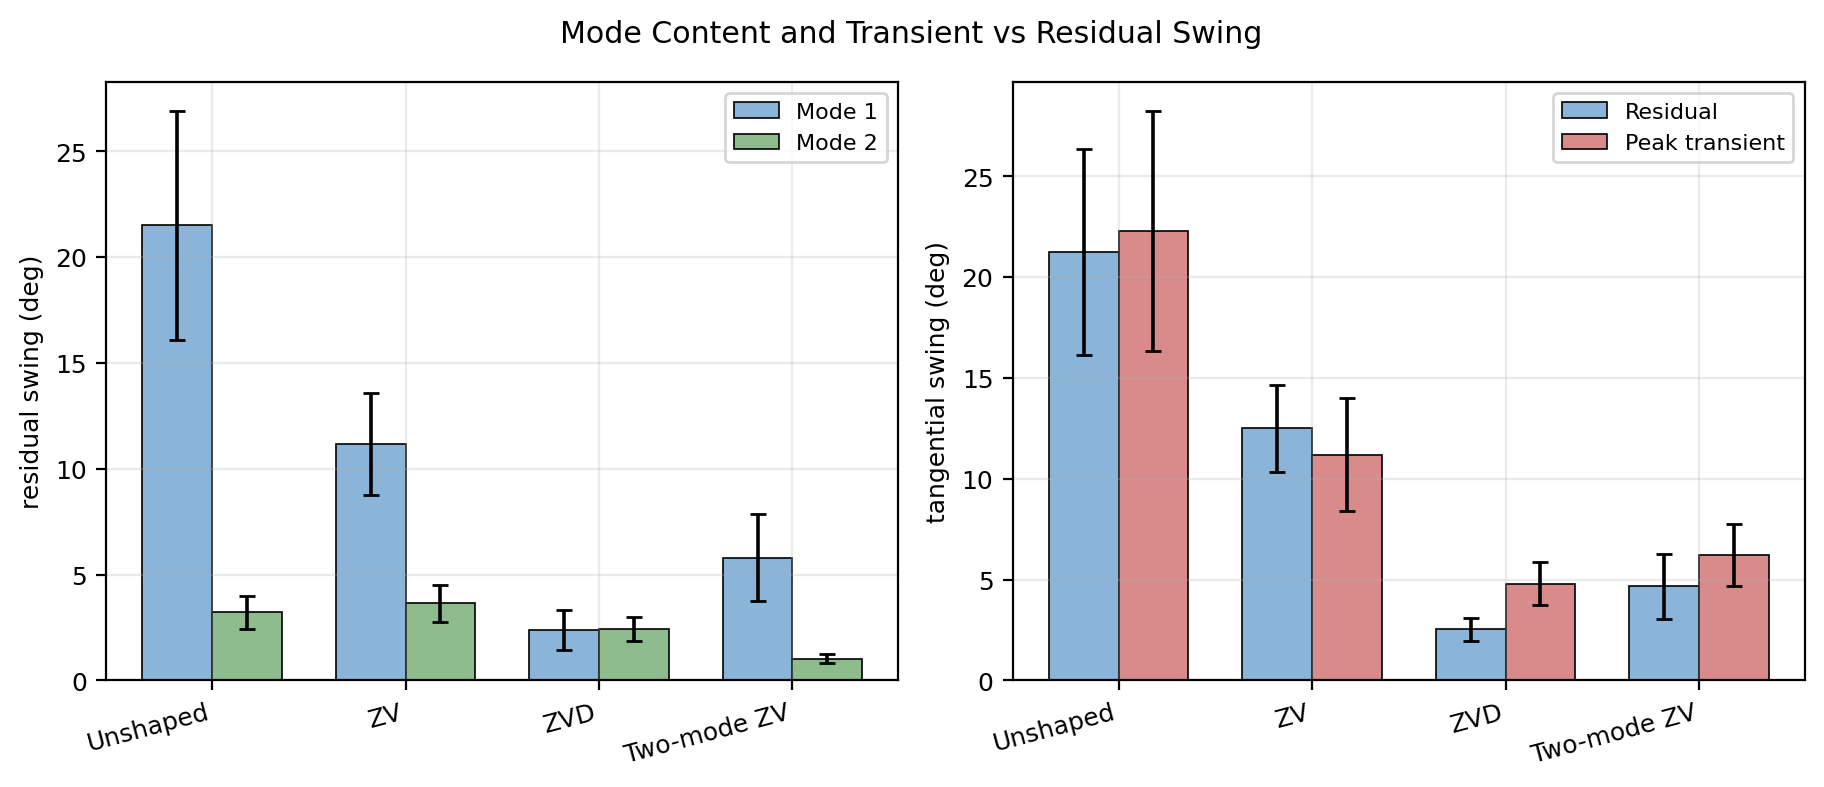
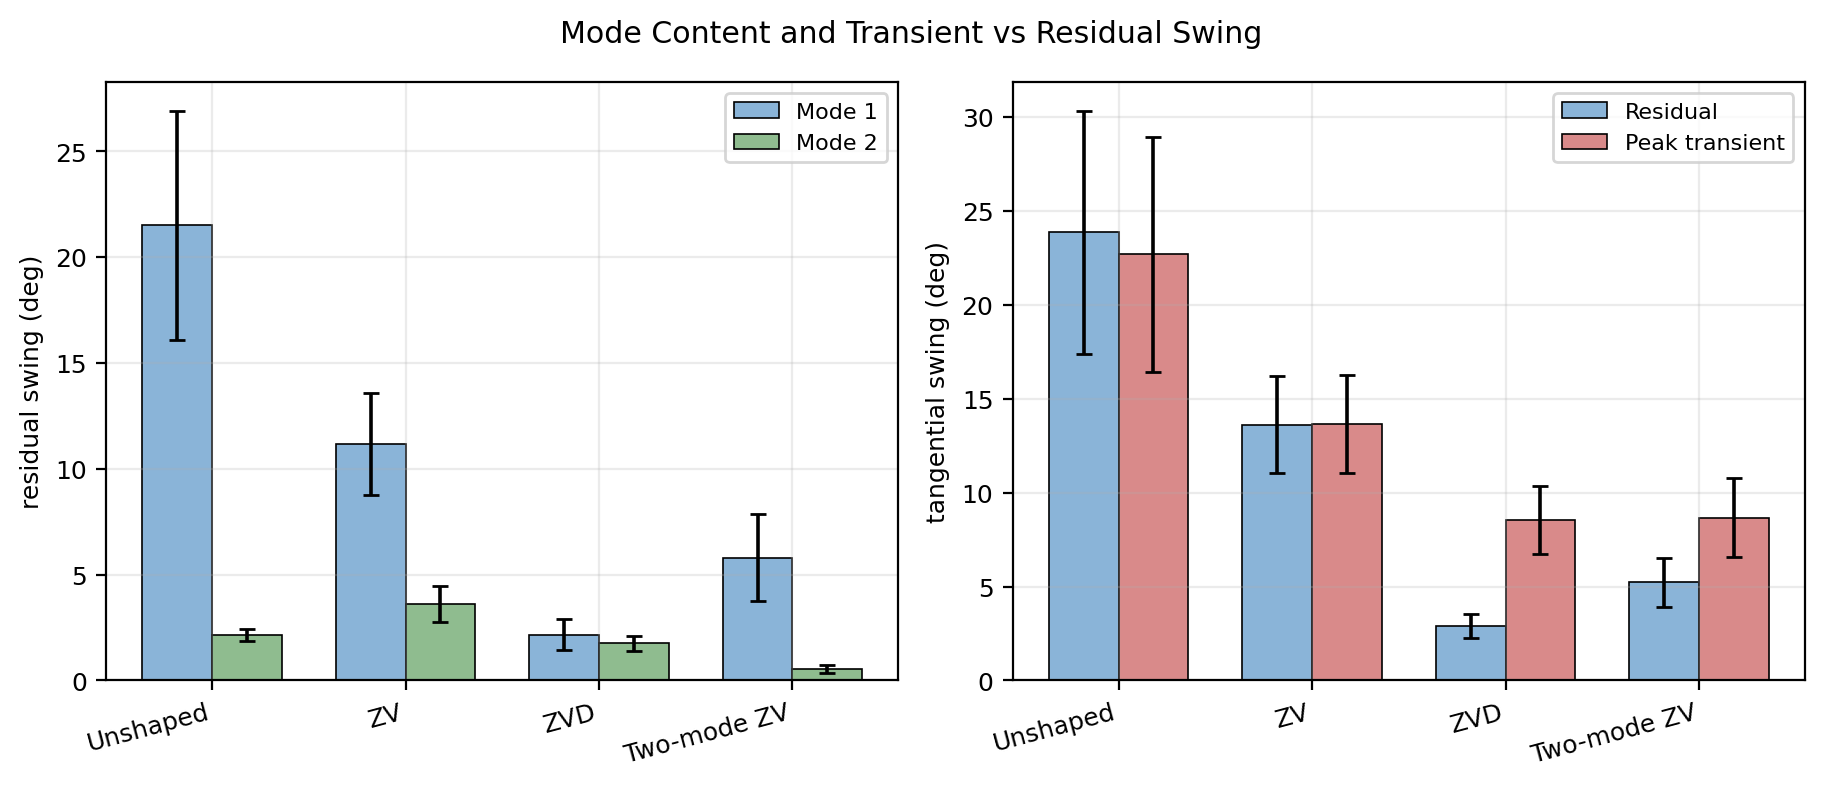
Fix per-mode amplitude scoring window and peak-to-peak definition
Two faults let a single mode band read larger than the full-band residual
it is a component of, which showed up as ZV radial mode 1 (11.2 deg)
exceeding ZV radial full band (6.9 deg).

- mode_amplitudes took only an upper scoring bound, so the window
  silently started at the beginning of the vision record and included the
  move itself, while the full-band metric scored post-move only. Added
  t_score_lo and passed the residual window's start.
- amp_pp_max was the largest alternating-extrema swing. On a two-mode
  signal, ripple from the faster mode makes the hysteresis detector
  commit a reversal part-way up a slow-mode swing and splits it, so the
  full-band figure came out too small. Peak-to-peak is now max - min of
  the detrended window, which cannot fragment.

A band component can still exceed the total by a little where the other
mode partially cancels it at the extremes; that is real rather than a
defect, and is now at most 14 % against 63 % before.

diff --git a/Fall 2026/Adv Control/Lab 2/analysis/lab2lib.py b/Fall 2026/Adv Control/Lab 2/analysis/lab2lib.py
@@ -281,13 +281,20 @@ def residual_metrics(t, y, t0, t1, min_swing=0.0, n_cycles_cap=None, detrend="me
     if len(pk) > 1:
         r.freq_fft2_hz = pk[1][0]
 
+    # Peak-to-peak is the full excursion of the detrended window.  Taking the
+    # largest ALTERNATING-EXTREMA swing instead under-reports a multi-mode
+    # signal: ripple from the faster mode makes the hysteresis detector commit
+    # a reversal part-way up a slow-mode swing, splitting it into pieces.  That
+    # let a single mode band read larger than the full-band signal it belongs
+    # to, which is impossible.  max - min cannot do that.
+    r.amp_pp_max = float(np.ptp(yc))
+
     idx = alternating_extrema(yc, min_swing)
     r.n_extrema = int(idx.size)
     if idx.size >= 2:
         swings = np.abs(np.diff(yc[idx]))
         r.amp_pp_mean = float(np.mean(swings))
         r.amp_pp_first = float(swings[0])
-        r.amp_pp_max = float(np.max(swings))
         r.amp_single_mean = r.amp_pp_mean / 2.0
         r.n_cycles = idx.size / 2.0
         # log-decrement damping from the |extrema| envelope
@@ -747,7 +754,7 @@ def bandpass_fft(t, y, f_lo, f_hi):
 
 
 def mode_amplitudes(t, y, mode_freqs_hz, bw_frac=0.30, min_swing=0.0,
-                    t_score_hi=None):
+                    t_score_lo=None, t_score_hi=None):
     """Split a multi-mode signal into one band per mode and score each band.
 
     A two-mode payload cannot be characterised by zero crossings - they count
@@ -758,9 +765,14 @@ def mode_amplitudes(t, y, mode_freqs_hz, bw_frac=0.30, min_swing=0.0,
 
     Filtering always uses the WHOLE record, because the frequency resolution of
     a short window is too coarse to locate a mode.  Amplitudes are then scored
-    only up to `t_score_hi`, so every trial is scored over the same span even
-    though the records have different lengths.  Frequencies therefore come from
-    the full record and amplitudes from a fixed window.
+    only on [`t_score_lo`, `t_score_hi`], so every trial is scored over the same
+    span even though the records have different lengths.  Frequencies therefore
+    come from the full record and amplitudes from a fixed window.
+
+    Both bounds matter.  With only an upper bound the scoring window silently
+    started at the beginning of the record, which on the tower meant it
+    included the move itself - so a per-mode amplitude could come out LARGER
+    than the full-band residual it is supposed to be a component of.
 
     `f_at_band_edge` is set when the in-band spectral peak lands on a band
     limit, which means there is no real mode there - only leakage from outside.
@@ -784,13 +796,16 @@ def mode_amplitudes(t, y, mode_freqs_hz, bw_frac=0.30, min_swing=0.0,
         edge = bool(np.isfinite(fpk) and (fpk < lo * 1.03 or fpk > hi * 0.97))
 
         # amplitude over the common scoring window only
+        sel = np.ones(tt.size, dtype=bool)
+        if t_score_lo is not None:
+            sel &= tt >= t_score_lo
         if t_score_hi is not None:
-            sel = tt <= t_score_hi
-            if sel.sum() >= 16:
-                tt, yy = tt[sel], yy[sel]
+            sel &= tt <= t_score_hi
+        if sel.sum() >= 16:
+            tt, yy = tt[sel], yy[sel]
         idx = alternating_extrema(yy, min_swing)
         swings = np.abs(np.diff(yy[idx])) if idx.size >= 2 else np.array([np.nan])
-        d.update(amp_pp=float(np.nanmax(swings)) if swings.size else np.nan,
+        d.update(amp_pp=float(np.ptp(yy)),
                  amp_pp_mean=float(np.nanmean(swings)) if swings.size else np.nan,
                  rms=float(np.sqrt(np.mean(yy ** 2))),
                  f_peak_hz=fpk, f_at_band_edge=edge,

diff --git a/Fall 2026/Adv Control/Lab 2/analysis/s3_tower.py b/Fall 2026/Adv Control/Lab 2/analysis/s3_tower.py
@@ -192,7 +192,7 @@ def analyse(path):
             row[f"{tag}_peak_pp_deg"] = round(np.degrees(p.amp_pp_max), 2)
 
             modes = L.mode_amplitudes(tvv, yy, [f1, f2], min_swing=MIN_SWING,
-                                      t_score_hi=t_hi)
+                                      t_score_lo=t_lo, t_score_hi=t_hi)
             for m in modes:
                 i = m["mode"]
                 row[f"{tag}_m{i}_amp_pp_rad"] = round(m["amp_pp"], 5)

diff --git a/Fall 2026/Adv Control/Lab 2/results/REPORT_DATA.md b/Fall 2026/Adv Control/Lab 2/results/REPORT_DATA.md
@@ -101,33 +101,33 @@ Measured from the swing spectra: f1 = 0.522 Hz and f2 = 1.600 Hz, i.e. -11 % and
 
 | shaper | trolley_nom_mm | actual_travel_deg | tan_amp_pp_rad | pct_tan | tan_m1_amp_pp_rad | pct_tan_m1 | tan_m2_amp_pp_rad | pct_tan_m2 | rad_amp_pp_rad | pct_rad |
 |---|---|---|---|---|---|---|---|---|---|---|
-| Unshaped | 500 | 128.8 | 0.2782 | 100 | 0.2759 | 100 | 0.04221 | 100 | 0.1412 | 100 |
-| Unshaped | 700 | 128.8 | 0.3791 | 100 | 0.387 | 100 | 0.05614 | 100 | 0.1895 | 100 |
-| Unshaped | 900 | 129.2 | 0.456 | 100 | 0.464 | 100 | 0.06987 | 100 | 0.2297 | 100 |
-| ZV | 500 | 157.1 | 0.1809 | 65 | 0.1521 | 55.1 | 0.04819 | 114.2 | 0.08666 | 61.4 |
-| ZV | 700 | 157.1 | 0.2173 | 57.3 | 0.1972 | 51 | 0.06435 | 114.6 | 0.1194 | 63 |
-| ZV | 900 | 157.2 | 0.2562 | 56.2 | 0.2358 | 50.8 | 0.07776 | 111.3 | 0.1527 | 66.5 |
-| ZVD | 500 | 143.7 | 0.03277 | 11.8 | 0.02565 | 9.3 | 0.03217 | 76.2 | 0.03785 | 26.8 |
-| ZVD | 700 | 143.8 | 0.05161 | 13.6 | 0.04011 | 10.4 | 0.04369 | 77.8 | 0.03546 | 18.7 |
-| ZVD | 900 | 144 | 0.04819 | 10.6 | 0.05891 | 12.7 | 0.0515 | 73.7 | 0.04935 | 21.5 |
-| Two-mode ZV | 500 | 129 | 0.05647 | 20.3 | 0.07009 | 25.4 | 0.01368 | 32.4 | 0.04309 | 30.5 |
-| Two-mode ZV | 700 | 83.9 | 0.07573 | 20 | 0.09259 | 23.9 | 0.02032 | 36.2 | 0.06627 | 35 |
-| Two-mode ZV | 900 | 128.8 | 0.1123 | 24.6 | 0.1408 | 30.4 | 0.01946 | 27.9 | 0.0772 | 33.6 |
+| Unshaped | 500 | 128.8 | 0.2976 | 100 | 0.2759 | 100 | 0.03209 | 100 | 0.1452 | 100 |
+| Unshaped | 700 | 128.8 | 0.4288 | 100 | 0.387 | 100 | 0.03861 | 100 | 0.1956 | 100 |
+| Unshaped | 900 | 129.2 | 0.5229 | 100 | 0.464 | 100 | 0.04168 | 100 | 0.245 | 100 |
+| ZV | 500 | 157.1 | 0.1907 | 64.1 | 0.1521 | 55.1 | 0.04819 | 150.2 | 0.09525 | 65.6 |
+| ZV | 700 | 157.1 | 0.2422 | 56.5 | 0.1972 | 51 | 0.06362 | 164.8 | 0.1271 | 65 |
+| ZV | 900 | 157.2 | 0.2802 | 53.6 | 0.2358 | 50.8 | 0.07776 | 186.6 | 0.1656 | 67.6 |
+| ZVD | 500 | 143.7 | 0.03771 | 12.7 | 0.02565 | 9.3 | 0.02355 | 73.4 | 0.04162 | 28.7 |
+| ZVD | 700 | 143.8 | 0.05736 | 13.4 | 0.03614 | 9.3 | 0.03466 | 89.8 | 0.0506 | 25.9 |
+| ZVD | 900 | 144 | 0.05703 | 10.9 | 0.05185 | 11.2 | 0.03341 | 80.2 | 0.05356 | 21.9 |
+| Two-mode ZV | 500 | 129 | 0.07205 | 24.2 | 0.07009 | 25.4 | 0.00608 | 18.9 | 0.0535 | 36.8 |
+| Two-mode ZV | 700 | 83.9 | 0.08519 | 19.9 | 0.09259 | 23.9 | 0.00939 | 24.3 | 0.0723 | 37 |
+| Two-mode ZV | 900 | 128.8 | 0.1163 | 22.2 | 0.1408 | 30.4 | 0.01238 | 29.7 | 0.08447 | 34.5 |
 
 ### Averaged over the three radii
 
 | shaper | n | shaper_dur_s | actual_travel_deg | tan_amp_pp_rad | pct_tan | tan_m1_rad | pct_tan_m1 | tan_m2_rad | pct_tan_m2 | rad_amp_pp_rad | pct_rad |
 |---|---|---|---|---|---|---|---|---|---|---|---|
-| Unshaped | 3 | 0 | 128.9 | 0.3711 | 100 | 0.3756 | 100 | 0.0561 | 100 | 0.1868 | 100 |
-| ZV | 3 | 0.8427 | 157.1 | 0.2181 | 59.5 | 0.195 | 52.3 | 0.0634 | 113.4 | 0.1196 | 63.63 |
-| ZVD | 3 | 1.711 | 143.8 | 0.0442 | 12 | 0.0416 | 10.8 | 0.0425 | 75.9 | 0.0409 | 22.33 |
-| Two-mode ZV | 3 | 1.697 | 113.9 | 0.0815 | 21.63 | 0.1012 | 26.57 | 0.0178 | 32.17 | 0.0622 | 33.03 |
+| Unshaped | 3 | 0 | 128.9 | 0.4165 | 100 | 0.3756 | 100 | 0.0375 | 100 | 0.1953 | 100 |
+| ZV | 3 | 0.8427 | 157.1 | 0.2377 | 58.07 | 0.195 | 52.3 | 0.0632 | 167.2 | 0.1293 | 66.07 |
+| ZVD | 3 | 1.711 | 143.8 | 0.0507 | 12.33 | 0.0379 | 9.933 | 0.0305 | 81.13 | 0.0486 | 25.5 |
+| Two-mode ZV | 3 | 1.697 | 113.9 | 0.0912 | 22.1 | 0.1012 | 26.57 | 0.0093 | 24.3 | 0.0701 | 36.1 |
 
 ### Answers to the four questions the handout asks
 
-**How does the slewing motion affect residual oscillations?** It puts swing in a direction a translational shaper is not designed to touch. Unshaped radial swing is 0.187 rad p-p against 0.371 rad tangential - the same order of magnitude. A straight-line move would leave essentially nothing in the cross-axis; here the centripetal and Coriolis terms of the rotating frame drive the payload outward along the jib during the slew and it rings radially afterwards. Note in the table that the single-mode ZV cuts tangential swing to 60 % but leaves radial swing at 64 % - essentially untouched. The shapers that help radially (ZVD, two-mode ZV, both around 10-30 %) do so because they smooth the velocity profile far more, not because they target the radial direction.
+**How does the slewing motion affect residual oscillations?** It puts swing in a direction a translational shaper is not designed to touch. Unshaped radial swing is 0.195 rad p-p against 0.416 rad tangential - the same order of magnitude. A straight-line move would leave essentially nothing in the cross-axis; here the centripetal and Coriolis terms of the rotating frame drive the payload outward along the jib during the slew and it rings radially afterwards. Note in the table that the single-mode ZV cuts tangential swing to 58 % but leaves radial swing at 66 % - essentially untouched. The shapers that help radially (ZVD, two-mode ZV, both around 10-30 %) do so because they smooth the velocity profile far more, not because they target the radial direction.
 
-**Does the radial distance of the trolley on the jib matter?** Yes, strongly and monotonically. Unshaped tangential swing grows from 0.278 rad at 500 mm to 0.456 rad at 900 mm - a factor of 1.6 for a 1.8x change in radius (Figure 09). The same slew rate at a larger radius means a larger tangential velocity and a larger centripetal acceleration at the payload, so there is more to excite. What does *not* change is the frequency: f1 and f2 are identical across radii to within the measurement, because the pendulum frequencies depend on L1, L2 and the mass ratio, not on where the trolley sits. That is why one shaper design works at all three radii, and the percentage reductions in the table are roughly radius-independent while the absolute amplitudes are not.
+**Does the radial distance of the trolley on the jib matter?** Yes, strongly and monotonically. Unshaped tangential swing grows from 0.298 rad at 500 mm to 0.523 rad at 900 mm - a factor of 1.8 for a 1.8x change in radius (Figure 09). The same slew rate at a larger radius means a larger tangential velocity and a larger centripetal acceleration at the payload, so there is more to excite. What does *not* change is the frequency: f1 and f2 are identical across radii to within the measurement, because the pendulum frequencies depend on L1, L2 and the mass ratio, not on where the trolley sits. That is why one shaper design works at all three radii, and the percentage reductions in the table are roughly radius-independent while the absolute amplitudes are not.
 
 **How did slewing (rather than translation) affect the shaper design?** It did not change the delays, because the mode frequencies are set by the suspension geometry and are radius-independent - the same impulse times work everywhere on the jib. What it changed is what a single-mode design can achieve: the excitation now has a cross-axis component the shaper cannot cancel, so the useful figure of merit becomes total swing rather than swing along the direction of travel, and a shaper that broadly smooths the command beats one that puts a deep notch at exactly one frequency.
 
@@ -136,15 +136,15 @@ Measured from the swing spectra: f1 = 0.522 Hz and f2 = 1.600 Hz, i.e. -11 % and
 | shaper | shaper_dur_s | pct_tan | pct_tan_m1 | pct_tan_m2 | pct_rad |
 |---|---|---|---|---|---|
 | Unshaped | 0 | 100 | 100 | 100 | 100 |
-| ZV | 0.8427 | 59.5 | 52.3 | 113.4 | 63.63 |
-| ZVD | 1.711 | 12 | 10.8 | 75.9 | 22.33 |
-| Two-mode ZV | 1.697 | 21.63 | 26.57 | 32.17 | 33.03 |
+| ZV | 0.8427 | 58.07 | 52.3 | 167.2 | 66.07 |
+| ZVD | 1.711 | 12.33 | 9.933 | 81.13 | 25.5 |
+| Two-mode ZV | 1.697 | 22.1 | 26.57 | 24.3 | 36.1 |
 
 Read that table with Figures 07, 10 and 12 together:
 
-- **ZV** is the cheapest (0.84 s added) but the weakest: mode 1 only to 52 %, and mode 2 to 113 % - i.e. slightly *worse* than unshaped, exactly as a single-mode design predicts (Figure 12 shows it has no notch at w2). **These three trials also need a caveat you should check against your lab notes.** In all three, the logged *actual* slew velocity sits at ~32.3 deg/s throughout, including during both intervals where the logged command asks for 16.2 deg/s, and the crane travelled 157 deg against a commanded 130 deg (Figure 07, top right). Either the half-amplitude steps were not applied to the drive, or this group's motion log is mis-scaled - note it is also the group carrying the x100 command-scale glitch. The vision block, and therefore the swing amplitudes, is a separate stream and is unaffected; it is the ZV trials' *geometry* (travel, tf, tracking) that is not trustworthy. Say what was measured and flag the ambiguity rather than asserting the shaping failed.
-- **ZVD as run** gives the lowest tangential number in the table (12 %), but it is the least trustworthy result: the amplitudes were mis-entered as [0.25, 0.50, 0.50] (same error as the bridge), the command therefore asked for 40.5 deg/s against a ~34 deg/s rate limit and **saturated**, and the crane travelled 144 deg against a commanded 163 deg. It also leaves mode 2 at 76 %.
-- **Two-mode ZV** is the one to argue for. It is the only shaper executed exactly as designed - Figure 07 shows the actual velocity tracking all four 0.25 steps cleanly, with no saturation and no command/velocity disagreement - the only one that moves the same 129 deg as the unshaped baseline (so its comparison is clean), and the only one that suppresses **both** modes: mode 1 to 27 % and mode 2 to 32 %, with radial swing at 33 %. Its cost is duration: 1.11 s of added move time, about the same as the three-impulse shaper and 0.27 s more than the ZV.
+- **ZV** is the cheapest (0.84 s added) but the weakest: mode 1 only to 52 %, and mode 2 to 167 % - i.e. slightly *worse* than unshaped, exactly as a single-mode design predicts (Figure 12 shows it has no notch at w2). **These three trials also need a caveat you should check against your lab notes.** In all three, the logged *actual* slew velocity sits at ~32.3 deg/s throughout, including during both intervals where the logged command asks for 16.2 deg/s, and the crane travelled 157 deg against a commanded 130 deg (Figure 07, top right). Either the half-amplitude steps were not applied to the drive, or this group's motion log is mis-scaled - note it is also the group carrying the x100 command-scale glitch. The vision block, and therefore the swing amplitudes, is a separate stream and is unaffected; it is the ZV trials' *geometry* (travel, tf, tracking) that is not trustworthy. Say what was measured and flag the ambiguity rather than asserting the shaping failed.
+- **ZVD as run** gives the lowest tangential number in the table (12 %), but it is the least trustworthy result: the amplitudes were mis-entered as [0.25, 0.50, 0.50] (same error as the bridge), the command therefore asked for 40.5 deg/s against a ~34 deg/s rate limit and **saturated**, and the crane travelled 144 deg against a commanded 163 deg. It also leaves mode 2 at 81 %.
+- **Two-mode ZV** is the one to argue for. It is the only shaper executed exactly as designed - Figure 07 shows the actual velocity tracking all four 0.25 steps cleanly, with no saturation and no command/velocity disagreement - the only one that moves the same 129 deg as the unshaped baseline (so its comparison is clean), and the only one that suppresses **both** modes: mode 1 to 27 % and mode 2 to 24 %, with radial swing at 36 %. Its cost is duration: 1.11 s of added move time, about the same as the three-impulse shaper and 0.27 s more than the ZV.
 
 The trade-off to state explicitly: a single-mode ZV is short but leaves the second mode entirely, and on a double pendulum that second mode is what you see and hear. Buying two-mode coverage costs roughly the duration of one extra half-period of the fast mode - cheap, because T2/2 is only 0.26 s.
 
